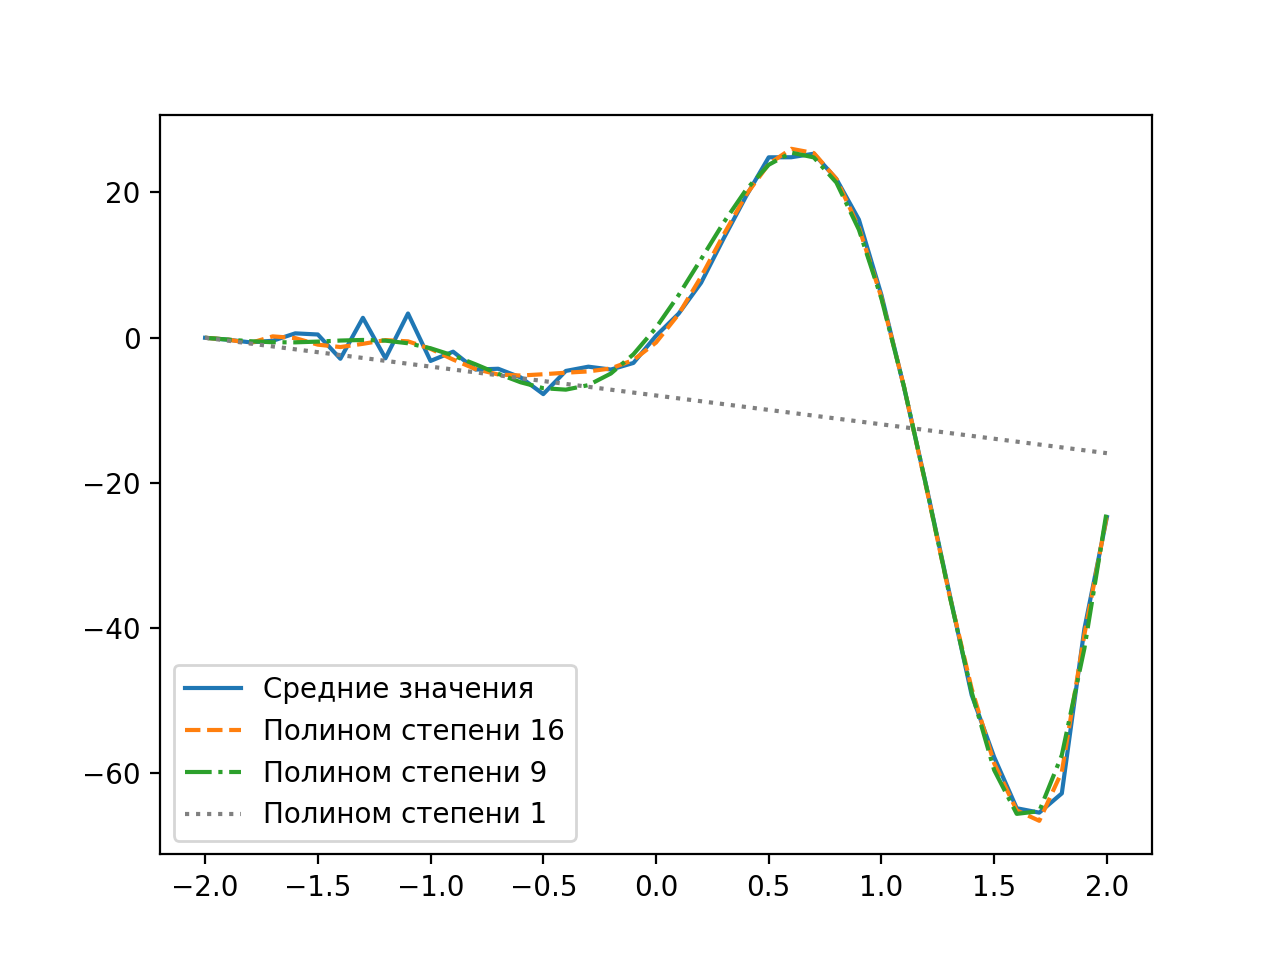
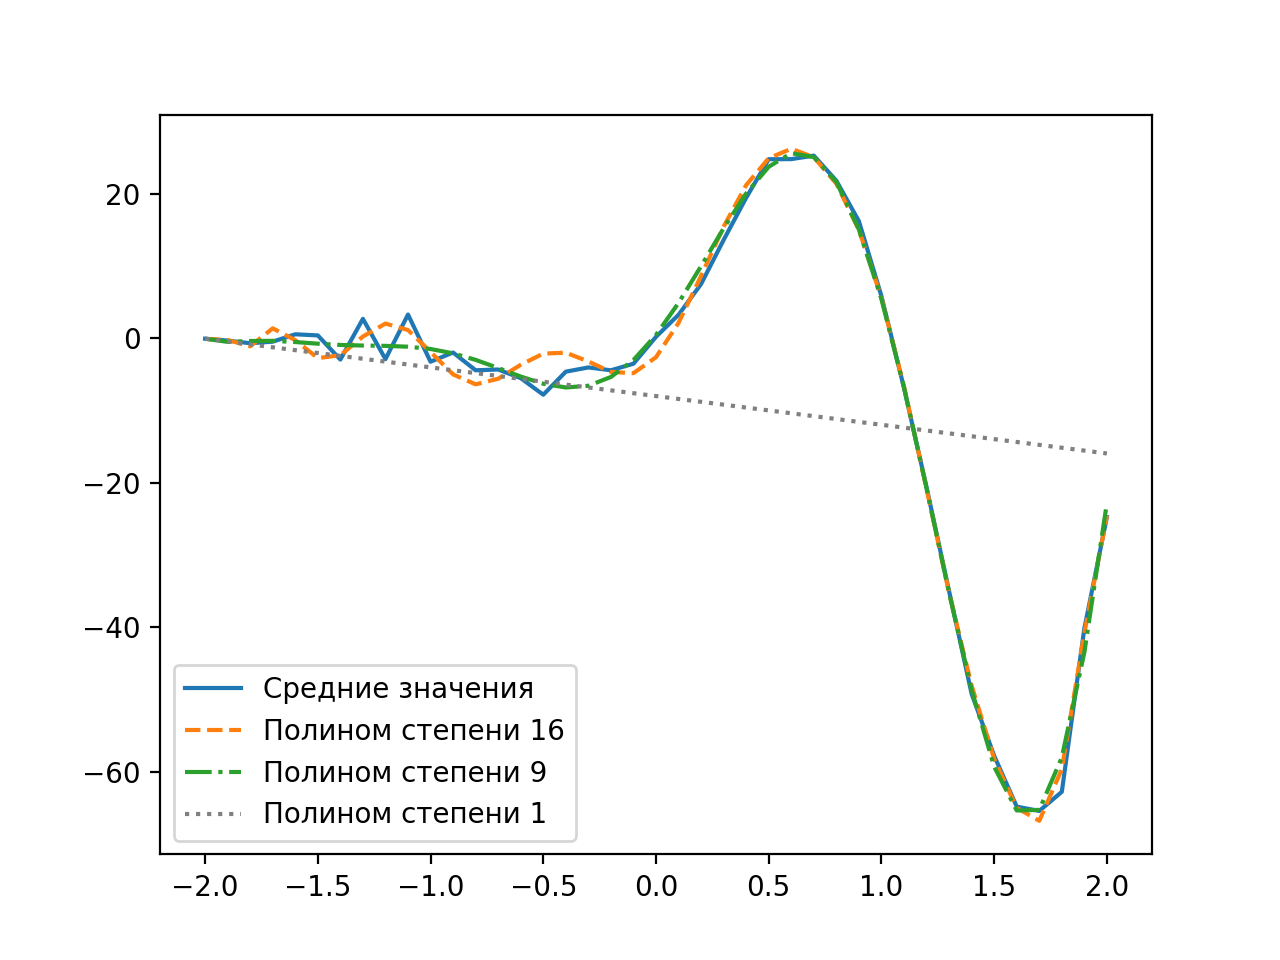
Some improvements

diff --git a/lab3/src/main.py b/lab3/src/main.py
@@ -4,11 +4,21 @@ import matplotlib.pyplot as plt
 from scipy import stats
 
 
-def format(floats):
-    result = " "
-    for v in floats:
-        result += " {:f}".format(v)
-    return result
+def print_matrix(matrix, offset):
+    for row in matrix:
+        print_vector(row, offset)
+
+
+def print_vector(vector, offset):
+    word = offset
+    isFirst = True
+    for cell in vector:
+        if isFirst:
+            word += "{: .4f}".format(cell)
+            isFirst = False
+        else:
+            word += "\t{: .4f}".format(cell)
+    print(word)
 
 
 def mean_interval(n, mean, s, t):
@@ -133,6 +143,12 @@ alpha = 0.2
 # В цикле перебираем все возможные степени полинома от 1 до 39 включительно
 # (не до 40, иначе в формуле ny / (nx - q - 1) будет деление на ноль)
 
+fisher_critical_ = np.empty(nx - 2)  # вектор для критических значений
+fisher_stat_ = np.empty(nx - 2)  # вектор для статистики
+covar_matrix_for_a: np.array  # ковариационная матрица
+corel_matrix_for_a: np.array  # корелляционная матрица
+first_q: int  # минимальная степень, которая подходит
+print("\nПроверка гипотез по критерию Фишера:\n")
 ready = False
 for q in range(1, nx - 1):
     # Матрица X
@@ -165,6 +181,9 @@ for q in range(1, nx - 1):
     # Критическое значение
     # Используем эту формулу так как nx > ny + 1, и матрица Сигма диагональная (да, по то же причине)
     fisher_critical = stats.f.ppf(1 - alpha, nx - q - 1, ny - 1)
+    # Заполняем ветора критических значений и статистики
+    fisher_stat_[q - 1] = fisher_stat
+    fisher_critical_[q - 1] = fisher_critical
     if fisher_stat < fisher_critical:
         # Подошло
         print("\t q = ", q, '\tКрит \t', fisher_critical, "\tСтат \t", fisher_stat)
@@ -172,20 +191,38 @@ for q in range(1, nx - 1):
         if not ready:
             ready = True
             # Посчитаем ковариационную матрицу оценок коэффициентов только для первого полинома, который подошел
-            print("\t Для q =", q)
-            covar_matrix_for_a = 1 / 10 * inv(np.matmul(np.matmul(x_matrix.transpose(), sigma_inv), x_matrix))
-            corel_matrix_for_a = np.empty(q + 1)
+            first_q = q
+            covar_matrix_for_a = 1 / ny * inv(np.matmul(np.matmul(x_matrix.transpose(), sigma_inv), x_matrix))
+            corel_matrix_for_a = np.empty((q + 1, q + 1))
             for i in range(q + 1):
-                corel_matrix_for_a[i] = covar_matrix_for_a[i, i] / (dispersions[i])
-            print("\t\t Ковариационная диагональня матрица")
-            print("\t\t\t", format(np.diagonal(covar_matrix_for_a)))
-            print("\t\t Корелляционная диагональня матрица")
-            print("\t\t\t", format(corel_matrix_for_a))
+                for j in range(q + 1):
+                    corel_matrix_for_a[i, j] = \
+                        covar_matrix_for_a[i, j] / \
+                        np.sqrt(covar_matrix_for_a[i, i] * covar_matrix_for_a[j, j])
+
     else:
         # Не подходит
         approx_rating[q - 1] = np.inf
 
-print(approx_rating)
+print("\nКовериационная и кореляционные матрицы для q =", first_q,
+      " (Можно скопировать их целиком в таблицу Word.\n"
+      "Для этого нужно выдлить все данные, скопировать их, выделить всю таблицу в Word и вставить)\n")
+print("\tКовариационная диагональня матрица:")
+print_matrix(covar_matrix_for_a, "")
+print("\n\tКорелляционная диагональня матрица:")
+print_matrix(corel_matrix_for_a, "")
+print("\n\t Рейтинг аппроксимаций:")
+print_vector(approx_rating, "")
+
+# Строим график зависимости статистики Фишера от степени полинома
+plt.plot(range(nx - 2), fisher_stat_)
+plt.yscale('log', basey=10)
+plt.title("Зависимость статистики Фишера от степени полинома")
+plt.xlabel(r"$q$")
+plt.ylabel(r"$F_\alpha$")
+plt.savefig("../out/stat_with_q.png", dpi=200)
+plt.show()
+plt.close()
 
 # Посчитаем ковариационную матрицу оценок коэффициентов для полинома с наименьшей степенью и
 # с наименьшей статистикой, но такие, которые прошли отбор
@@ -200,8 +237,11 @@ for i in range(len(approx_rating)):
     if approx_rating[i] < approx_rating[min_stat_index]:
         min_stat_index = i
 
-print(min_power_index)
-print(min_stat_index)
+# Печатаем коэффициенты для полиномов с 9 по 16 степень
+print("\tСтепени при X начинаются с 0")
+for i in range(8, 16):
+    print("\tКоэффициенты а для полинома степени " + str(i + 1))
+    print_vector(a[i][:i + 2], "\t")
 
 
 # ============= ПОСТРОИМ ГРАФИКИ ДЛЯ ПОЛИНОМОВ И CРЕДНИХ ЗНАЧЕНИЙ
@@ -215,8 +255,8 @@ def polinom(coefficients, x):
 
 # Строим графики
 plt.plot(x, y_)
-plt.plot(x, polinom(a[min_stat_index], x), '--')
-plt.plot(x, polinom(a[min_power_index], x), '-.')
+plt.plot(x, polinom(a[min_stat_index + 1], x), '--')
+plt.plot(x, polinom(a[min_power_index + 1], x), '-.')
 plt.plot(x, polinom(a[0], x), ':', c='grey')
 text_1 = 'Полином степени ' + str(min_stat_index + 1)
 text_2 = 'Полином степени ' + str(min_power_index + 1)
